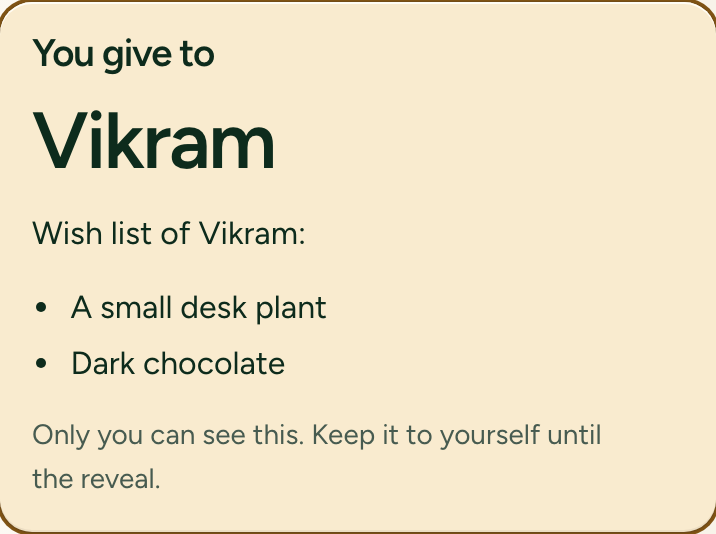
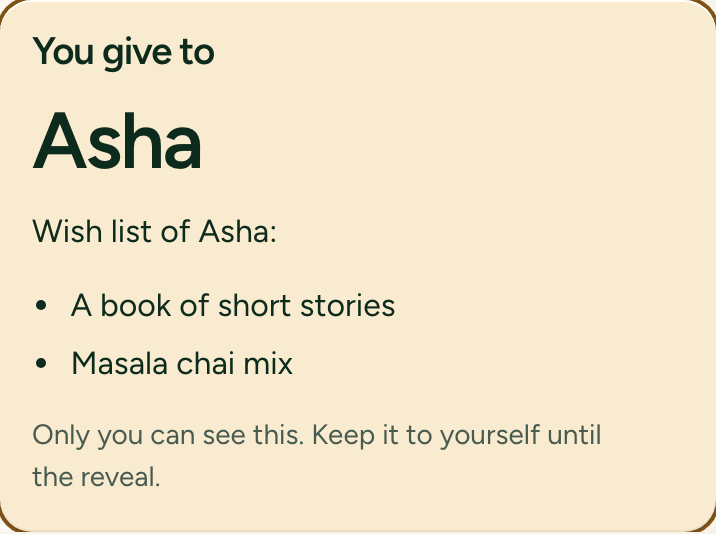
write-up counts and new shots

diff --git a/docs/write-up.html b/docs/write-up.html
@@ -125,7 +125,7 @@ answer. The middle value was 1.27 seconds. The live server runs in Singapore; it
   <li>Limits stop abuse: 10 new rooms and 60 new people for each network address in an hour, 20 mask messages
   for each member in a minute, 300 stored messages in one mask thread, and no new mask message when the
   database is near its size limit. The health address checks the database.</li>
-  <li>Tests at the time of writing: 335 unit and integration tests, 54 browser tests, and the real-chat tests above.</li>
+  <li>Tests at the time of writing: 346 unit and integration tests, 55 browser tests, and the real-chat tests above. The browser tests also ran on WebKit, the engine of Safari: 52 of 55 pass, and the other 3 need keyboard and clipboard features that WebKit on macOS does not give to a test.</li>
 </ul>
 
 <h2>6. Traction</h2>
